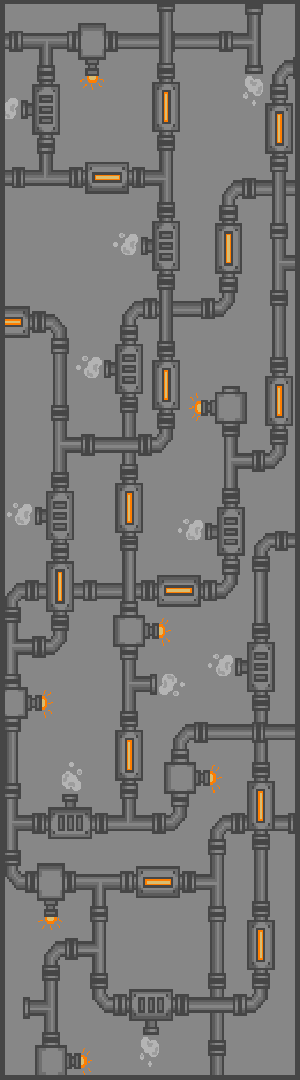
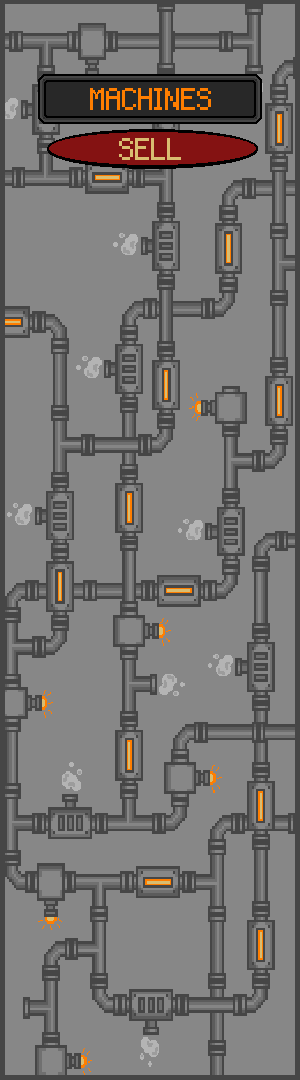
towerselector done

Changed region(s): [[0.12, 0.0611, 0.87, 0.1833]]

diff --git a/src/ui/hud/towerSelector/TowerSelector.java b/src/ui/hud/towerSelector/TowerSelector.java
@@ -1,11 +1,11 @@
 package ui.hud.towerSelector;
 
 import core.MainClass;
+import core.Player;
 import entities.tower.Tower;
-import greenfoot.Greenfoot;
-import greenfoot.GreenfootImage;
-import greenfoot.MouseInfo;
+import greenfoot.*;
 import maps.levels.GameMap;
+import ui.hud.buttons.Button;
 import util.Clickable;
 
 import java.util.List;
@@ -18,6 +18,10 @@ public class TowerSelector extends MainClass implements Clickable {
     private final Supplier<Tower> towerToSpawn;
     private final Tower tower;
 
+    private final GreenfootImage imageNoPrice;
+
+    private int oldCoins = 0;
+
     public TowerSelector(Supplier<Tower> towerToSpawn) {
         tower = towerToSpawn.get();
         GreenfootImage imgage = new GreenfootImage("towerSelectorFrame.png");
@@ -27,11 +31,42 @@ public class TowerSelector extends MainClass implements Clickable {
         GreenfootImage img = tower.getImage();
         img.scale(100, 100);
         imgage.drawImage(img,15,15);
-        // TODO Fix price display
-        //img.drawString(String.valueOf(tower.getPrice()), 30, 20);
-        setImage(imgage);
+
+        GreenfootImage priceDisplay = new GreenfootImage("towerSelectorPrice.png");
+        GreenfootImage fullImage = new GreenfootImage(130,170);
+
+        fullImage.drawImage(imgage,0,0);
+        fullImage.drawImage(priceDisplay, 23, 130);
+
+        fullImage.setFont(new Font("Arial", true, false, 20));
+
+        imageNoPrice = fullImage;
+        setImage(imageNoPrice);
 
         this.towerToSpawn = towerToSpawn;
+    }
+
+    public void addedToWorld(World w) {
+        updatePrice();
+    }
+
+
+    public void updatePrice() {
+        int coins = getWorldOfType(GameMap.class).getPlayer().getCoins();
+        if(coins == oldCoins) { //coins didnt change so state didnt either
+            return;
+        }
+        oldCoins =  coins;
+
+        GreenfootImage img = new GreenfootImage(imageNoPrice);
+        if(coins >= tower.getPrice()) {
+            img.setColor(Color.GREEN);
+        } else {
+            img.setColor(Color.RED);
+        }
+
+        img.drawString(String.valueOf(tower.getPrice() + "$"), 45, 157);
+        setImage(img);
     }
 
     @Override
@@ -72,6 +107,7 @@ public class TowerSelector extends MainClass implements Clickable {
 
     public void act() {
         checkClick();
+        updatePrice();
     }
 }
 

diff --git a/src/ui/hud/towerSelector/TowerSelectorSpawner.java b/src/ui/hud/towerSelector/TowerSelectorSpawner.java
@@ -12,19 +12,17 @@ public class TowerSelectorSpawner extends MainClass {
     public TowerSelectorSpawner() {
         GreenfootImage img = new GreenfootImage("towerSelectorMenu.png");
         setImage(img);
-
-
     }
 
     @Override
     protected void addedToWorld(World world) {
-        getWorld().addObject(new TowerSelector(TestTower::new), 1700, 460);
-        getWorld().addObject(new TowerSelector(HomingTower::new), 1700, 660);
-        getWorld().addObject(new TowerSelector(TrapTower::new), 1900, 460);
-        getWorld().addObject(new TowerSelector(Flamethrower::new), 1900, 660);
-        getWorld().addObject(new TowerSelector(Sniper::new), 1700, 860);
-        getWorld().addObject(new TowerSelector(Rocketlauncher::new), 1700, 60); // temp,TODO needs to be changed later
-        getWorld().addObject(new TowerSelector(IceTower::new), 1900, 860);
+        getWorld().addObject(new TowerSelector(TestTower::new),      getWorld().getWidth()-140, getWorld().getHeight()-695);
+        getWorld().addObject(new TowerSelector(HomingTower::new),    getWorld().getWidth()-210, getWorld().getHeight()-505);
+        getWorld().addObject(new TowerSelector(TrapTower::new),      getWorld().getWidth()-70,  getWorld().getHeight()-505);
+        getWorld().addObject(new TowerSelector(Flamethrower::new),   getWorld().getWidth()-210, getWorld().getHeight()-315);
+        getWorld().addObject(new TowerSelector(Sniper::new),         getWorld().getWidth()-70,  getWorld().getHeight()-315);
+        getWorld().addObject(new TowerSelector(Rocketlauncher::new), getWorld().getWidth()-70,  getWorld().getHeight()-125); // temp,TODO needs to be changed later
+        getWorld().addObject(new TowerSelector(IceTower::new),       getWorld().getWidth()-210, getWorld().getHeight()-125);
 
     }
 }
